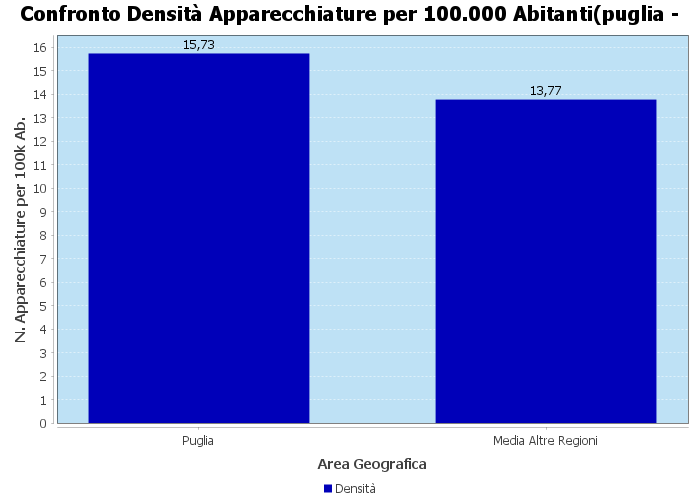
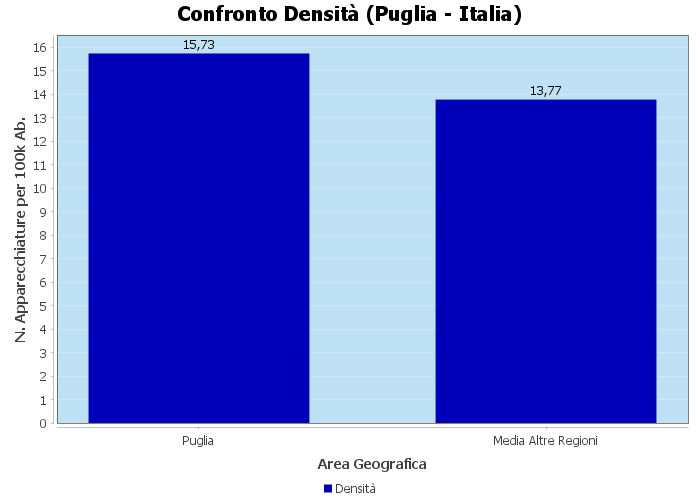
aggiornamento 1

Changed region(s): [[0.03, 0.0, 0.96, 0.06]]

diff --git a/src/grafic/GeneratoreGrafici1.java b/src/grafic/GeneratoreGrafici1.java
@@ -116,32 +116,53 @@ public class GeneratoreGrafici1 {
            
 
             // GRAFICI
-         // Primo grafico a torta (Tipologie in Puglia)
-            DefaultPieDataset datasetTorta = new DefaultPieDataset();
-            for (Map.Entry<String, Integer> entry : macchinariPuglia.entrySet()) {
-                datasetTorta.setValue(entry.getKey(), entry.getValue());
+// 1. Primo grafico a barre orizzontali (Tipologie in Puglia, ordinate in modo decrescente)
+            
+            //  Estrai le entry dalla mappa in una lista per poterle ordinare
+            List<Map.Entry<String, Integer>> tipologiePugliaOrdinate = new ArrayList<>(macchinariPuglia.entrySet());
+            
+            //  Ordina la lista in base ai valori in modo DECRESCENTE (dal più grande al più piccolo)
+            tipologiePugliaOrdinate.sort((e1, e2) -> e2.getValue().compareTo(e1.getValue()));
+
+            //  Crea il dataset per il grafico a barre
+            DefaultCategoryDataset datasetTipologiePuglia = new DefaultCategoryDataset();
+            for (Map.Entry<String, Integer> entry : tipologiePugliaOrdinate) {
+                datasetTipologiePuglia.addValue(entry.getValue(), "Quantità", entry.getKey());
             }
             
-            JFreeChart chartTorta = ChartFactory.createPieChart(
-                "Apparecchiature Sanitarie in Puglia", // Titolo
-                datasetTorta,                          // Dataset
-                true,                                  // Legenda
-                true,                                  // Tooltips
-                false                                  // URL
+            //  Crea il grafico a barre specificando l'orientamento ORIZZONTALE
+            JFreeChart chartTipologiePuglia = ChartFactory.createBarChart(
+                "Apparecchiature Sanitarie in Puglia: Analisi per Tipologia", // Titolo
+                "Tipologia Macchinario",                                      // Etichetta Asse X (che diventerà Y in orizzontale)
+                "Numero di Apparecchiature",                                  // Etichetta Asse Y (che diventerà X in orizzontale)
+                datasetTipologiePuglia,                                       // Dataset ordinato
+                PlotOrientation.HORIZONTAL,                                   // ORIENTAMENTO ORIZZONTALE
+                false,                                                        // Legenda (falso, non serve per una sola serie)
+                true,                                                         // Tooltips
+                false                                                         // URL
             );
             
-       
-            PiePlot plot = (PiePlot) chartTorta.getPlot();
-            plot.setSimpleLabels(false);
-       
-            plot.setLabelGenerator(new org.jfree.chart.labels.StandardPieSectionLabelGenerator(
-                "{0}: {1} ({2})", 
-                new java.text.DecimalFormat("0"), 
-                new java.text.DecimalFormat("0.00%")
-            ));
-            plot.setBackgroundPaint(new java.awt.Color(190,225,245));
+            //  Estetica del grafico (colori, valori sulle barre, ecc.)
+            CategoryPlot plotTipologiePuglia = chartTipologiePuglia.getCategoryPlot();
+            plotTipologiePuglia.setBackgroundPaint(new java.awt.Color(190, 225, 245)); // Stesso sfondo azzurro
+            plotTipologiePuglia.setRangeGridlinePaint(java.awt.Color.WHITE);           // Griglia bianca
             
-            ChartUtils.saveChartAsPNG(new File("grafico_puglia_tipologie.png"), chartTorta, 800, 500);
+            org.jfree.chart.renderer.category.BarRenderer rendererTipologie = 
+                (org.jfree.chart.renderer.category.BarRenderer) plotTipologiePuglia.getRenderer();
+            
+            // Colore delle barre e rimozione ombre
+            rendererTipologie.setSeriesPaint(0, new java.awt.Color(79, 129, 189)); // Blu elegante
+            rendererTipologie.setShadowVisible(false);
+            rendererTipologie.setBarPainter(new org.jfree.chart.renderer.category.StandardBarPainter());
+            
+            // Mostra il numero esatto alla fine di ogni barra
+            rendererTipologie.setDefaultItemLabelsVisible(true); 
+            rendererTipologie.setDefaultItemLabelGenerator(new org.jfree.chart.labels.StandardCategoryItemLabelGenerator(
+                "{2}", new java.text.DecimalFormat("0")
+            ));
+            
+            //  Salva il grafico
+            ChartUtils.saveChartAsPNG(new File("grafico_puglia_tipologie_barre.png"), chartTipologiePuglia, 800, 500);
 
             // 2. Secondo grafico 
             DefaultCategoryDataset datasetBarrePesato = new DefaultCategoryDataset();
@@ -151,15 +172,15 @@ public class GeneratoreGrafici1 {
             datasetBarrePesato.addValue(mediaPesataSenzaPuglia100k, "Densità", "Media Altre Regioni");
 
             JFreeChart chartBarrePesato = ChartFactory.createBarChart(
-                "Confronto Densità Apparecchiature per 100.000 Abitanti(puglia -", // Titolo
-                "Area Geografica",                              // Etichetta Asse X
-                "N. Apparecchiature per 100k Ab.",              // Etichetta Asse Y
-                datasetBarrePesato, 
-                PlotOrientation.VERTICAL, 
-                true, // Legenda (
-                true,  // Tooltip
-                false  
-            );
+                    "Confronto Densità (Puglia - Italia)",          
+                    "Area Geografica",                              // Etichetta Asse X
+                    "N. Apparecchiature per 100k Ab.",              // Etichetta Asse Y
+                    datasetBarrePesato, 
+                    PlotOrientation.VERTICAL, 
+                    true,  // Legenda 
+                    true,  // Tooltip
+                    false  
+                );
             
       
             CategoryPlot plotBarre = chartBarrePesato.getCategoryPlot();
@@ -206,13 +227,19 @@ public class GeneratoreGrafici1 {
                 false    // URL
             );
             
-            CategoryPlot plotTutte = chartTutteRegioni.getCategoryPlot();
+CategoryPlot plotTutte = chartTutteRegioni.getCategoryPlot();
             
-            // TRUCCO: Usiamo lo StackedBarRenderer per compattare le barre
-            // e avere un colore diverso per ciascuna regione senza lasciare buchi
             StackedBarRenderer renderer = new StackedBarRenderer();
             renderer.setShadowVisible(false);
             renderer.setBarPainter(new StandardBarPainter()); 
+            // Scorriamo tutte le serie generate per trovare la Puglia
+            for (int i = 0; i < datasetTutteRegioni.getRowCount(); i++) {
+                String nomeRegione = (String) datasetTutteRegioni.getRowKey(i);
+                if (nomeRegione.equalsIgnoreCase("PUGLIA")) {
+                    // Imposta un rosso brillante che contrasta bene col testo nero dell'etichetta
+                    renderer.setSeriesPaint(i, java.awt.Color.RED); 
+                }
+            }
 
             renderer.setDefaultItemLabelsVisible(true);
             renderer.setDefaultItemLabelGenerator(new org.jfree.chart.labels.StandardCategoryItemLabelGenerator(
